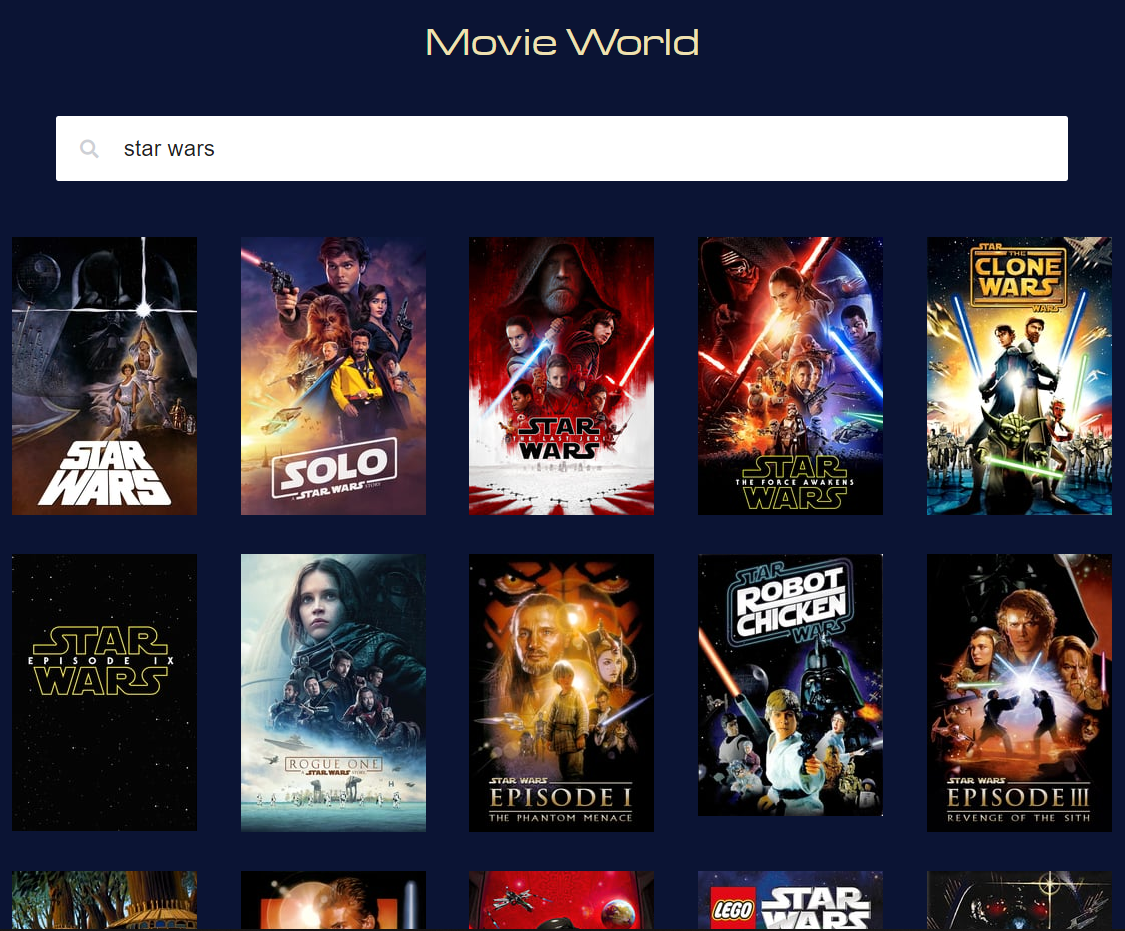
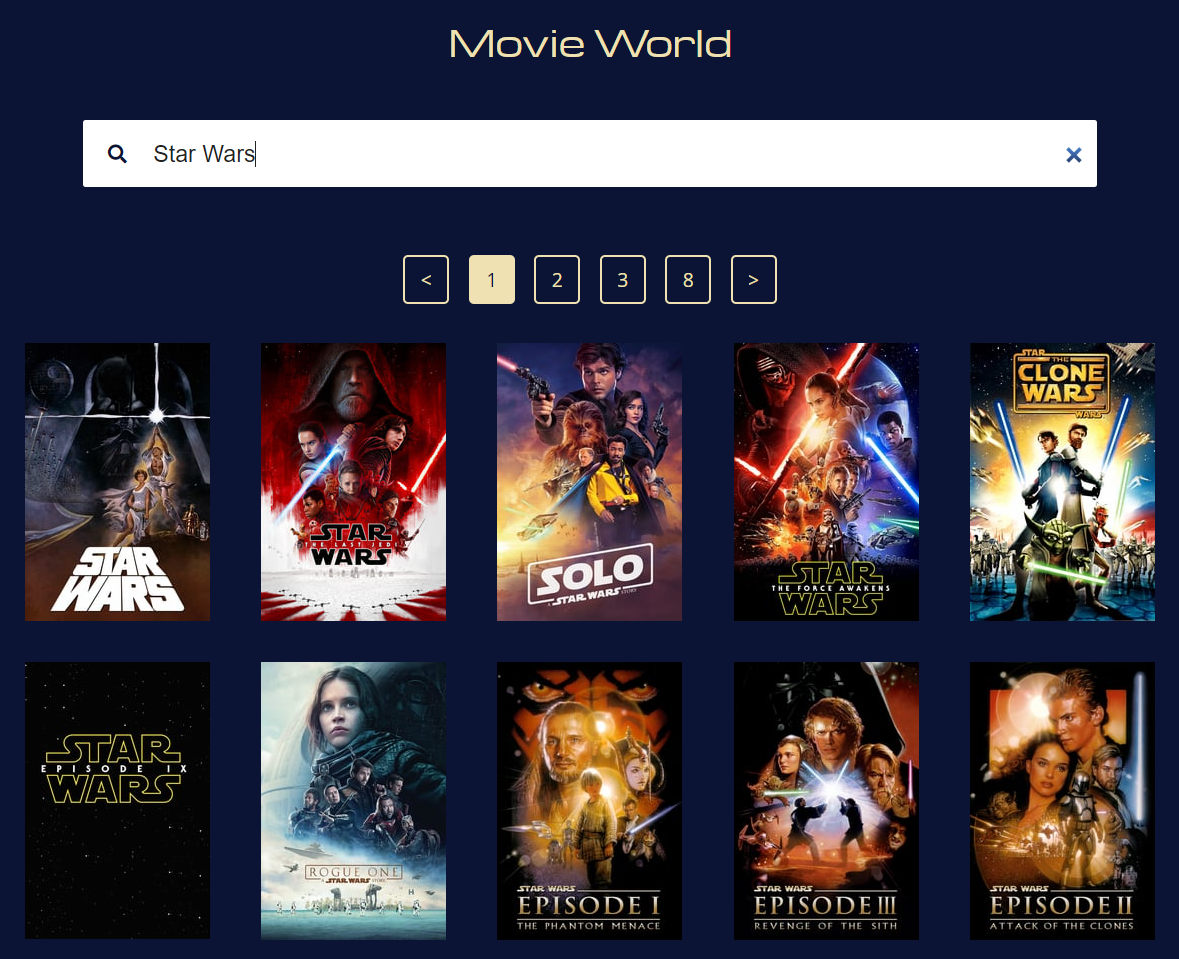
Updated the screenshot of project (Movie World).

diff --git a/index.html b/index.html
@@ -119,7 +119,7 @@
             </div>
           </li>
           <li class="card" data-toggle="modal" data-target="#modal-movie-world" data-aos="fade-up" data-aos-anchor-placement="center-bottom" data-aos-delay="200">
-            <img src="./img/projects/movie-world-new.png" alt="Image of Movie World">
+            <img src="./img/projects/movie-world.png" alt="Image of Movie World">
             <div class="card-content">
               <h3 class="card-title">Movie World</h3>
               <p class="project-description">A React app for searching info of movies (using The Movie Database API).</p>
@@ -264,7 +264,7 @@
             </div>
             <div class="modal-body">
               <a class="button live-website" href="https://festive-curie-c1aab0.netlify.com/" target="_blank">Live Website</a>
-              <img src="./img/projects/movie-world-new.png" alt="Image of Movie World">
+              <img src="./img/projects/movie-world.png" alt="Image of Movie World">
               <div class="project-features">
                 <h5>Features:</h5>
                 <ul>
